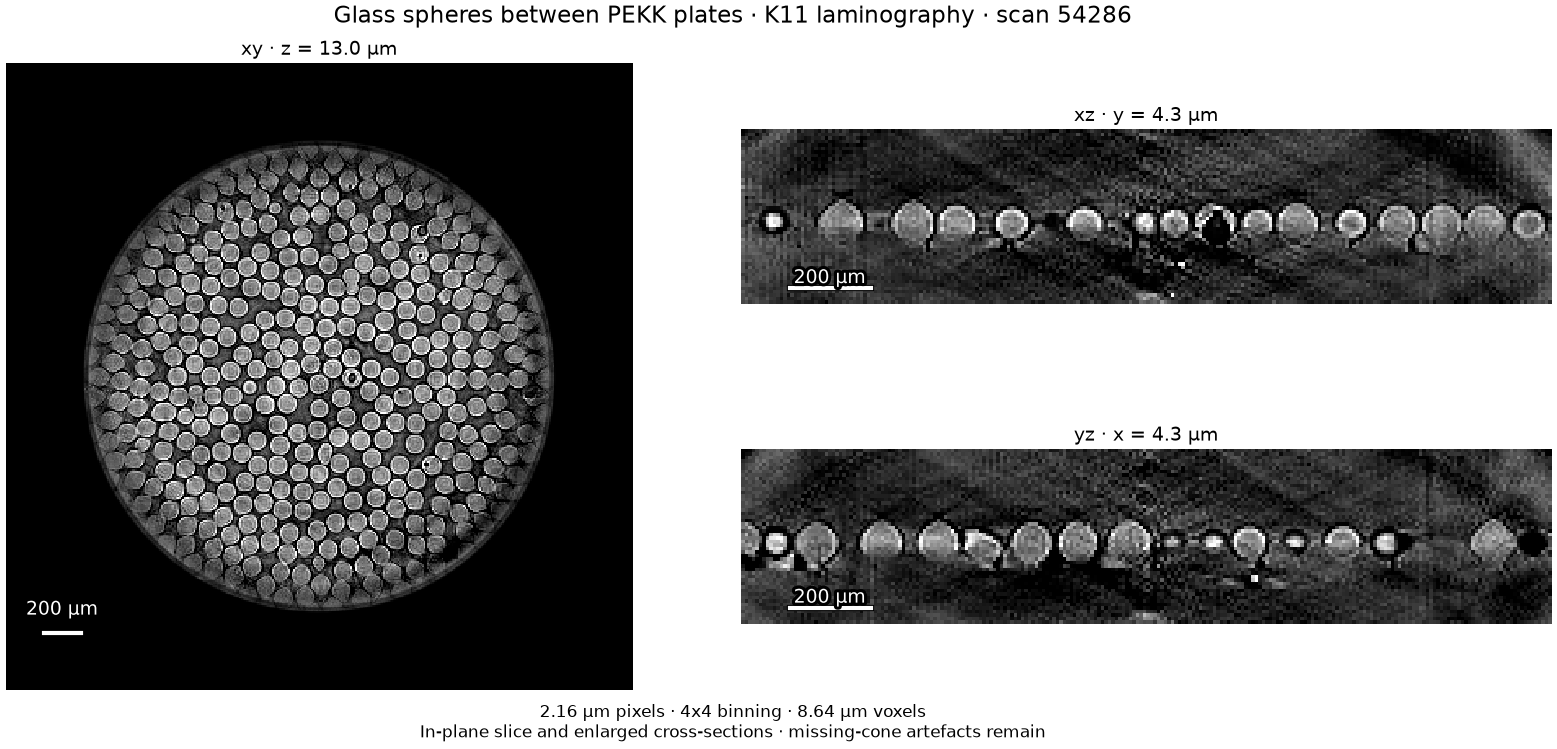
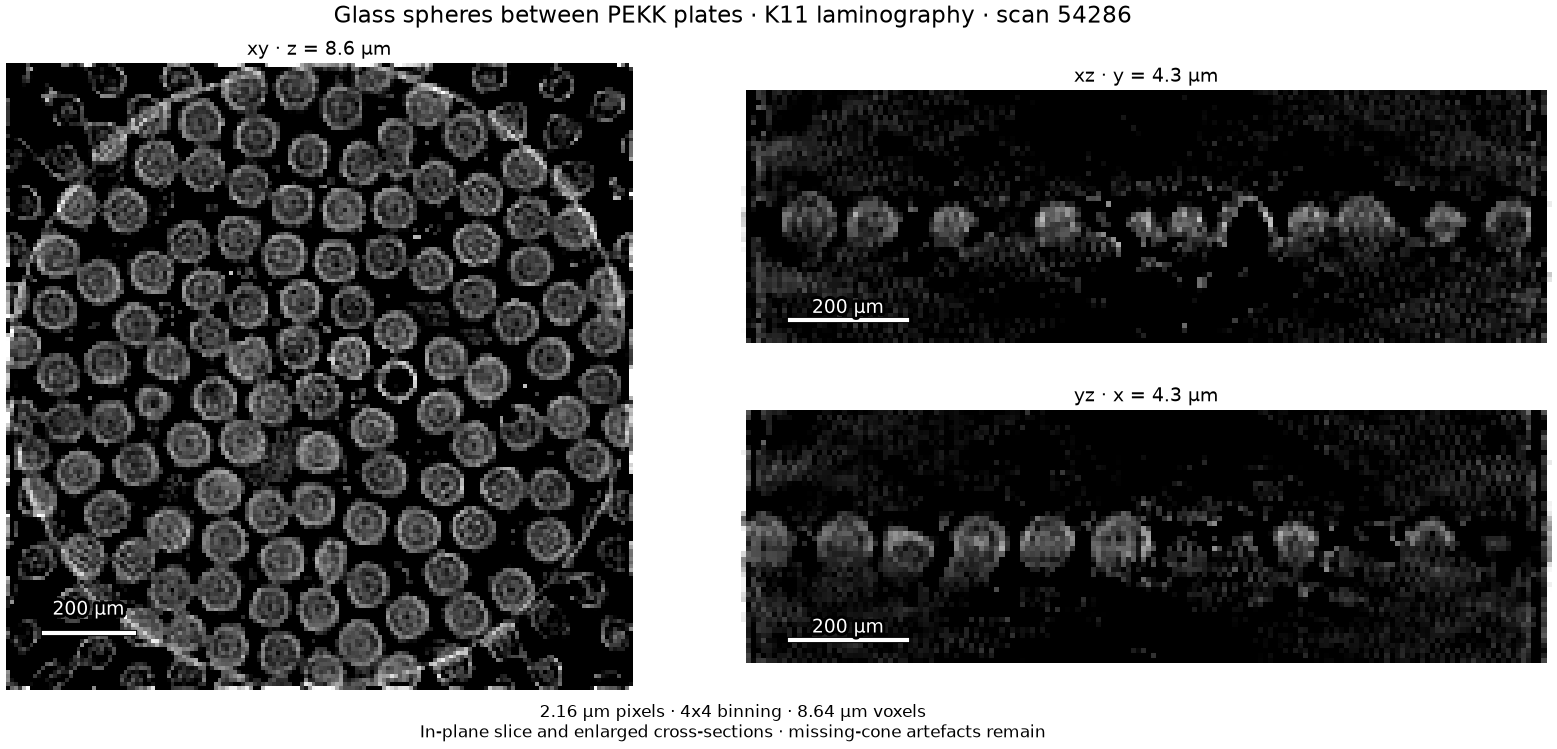
Document motion= and redraw every published plain-call alignment figure
align-a-scan.md gains a section on motion="independent" and "smooth" with the
watch and K11 54013 numbers, puts motion first in the settings table, renames
innovation_scale to slip_scale there, and says the ladder figures were made
with motion="smooth" (their generator is not in the repository; logged). The
CHANGELOG has the change and its row in the names table; measurements.md has
the new default's K11 times and a smooth / independent table; the slip
limitation is now 8% short (16% with motion="smooth").

Redrawn with the default: the README watch figure (its script is a plain call
again: shifts 0.07 / 0.05 px RMS in 36 s), the rock, K11 sphere, K11 ruby
sphere, K11 glass layer and chip figures (the chip's shifts now 0.03 / 0.06 px
RMS, from 0.33 / 0.22).

diff --git a/examples/align_watch.py b/examples/align_watch.py
@@ -6,8 +6,7 @@ The rotation axis projects 5.3 pixels off the detector centre, and every view
 has its own pose: a slow wobble of the sample plus jitter, up to 0.25° in each
 rotation and 2.4 pixels across and 1.5 pixels along the axis. gVXR traces the
 projections through the movement's meshes at those poses. ``tj.align`` fits
-``("center", "translations", "rotations")`` jointly with the volume, with
-``AlignConfig(innovation_scale=100)`` because the stage jitters from view to view; nominal
+``("center", "translations", "rotations")`` jointly with the volume; nominal
 and aligned scans are reconstructed with the same FISTA-TV settings (TV weight 1e-5).
 
 A shared rigid movement of the object and its poses cannot be distinguished by
@@ -45,8 +44,6 @@ VIEWS, PHOTONS = 400, 2e4
 CENTER_PX, ROTATION_DEG = 5.3, 0.25
 # A TV weight of 1e-5 keeps the hairspring; the automatic weight smooths it away.
 RECONSTRUCTION = {"iterations": 100, "tv_weight": 1e-5, "nonnegative": True, "warm_start": True}
-# The stage jitters from view to view, so the motion prior counts much larger steps as motion.
-ALIGNMENT = {"innovation_scale": 100.0}
 ZOOM = 140  # voxels on a side of the balance close-up
 
 
@@ -142,7 +139,7 @@ def run(args: argparse.Namespace) -> tuple[dict[str, np.ndarray], dict[str, obje
 
     start = time.perf_counter()
     fit = ("center", "translations", "rotations")
-    result = tj.align(scan, fit=fit, config=tj.AlignConfig(**ALIGNMENT))
+    result = tj.align(scan, fit=fit)
     align_seconds = time.perf_counter() - start
     before = np.asarray(tj.reconstruct(scan, "fista", **RECONSTRUCTION).volume)
     after = np.asarray(tj.reconstruct(result.scan, "fista", **RECONSTRUCTION).volume)
@@ -195,7 +192,6 @@ def run(args: argparse.Namespace) -> tuple[dict[str, np.ndarray], dict[str, obje
         "true_axis_offset_px": CENTER_PX,
         "motion": "wobble and jitter, up to 0.25 deg per rotation, 2.4 px dx, 1.5 px dz",
         "fit": list(fit),
-        "alignment_config": ALIGNMENT,
         "align_seconds": align_seconds,
         "reconstruction": {"method": "fista", **RECONSTRUCTION, "warm_start": "fbp"},
         "relative_l2_nominal": error(before, truth),
@@ -232,7 +228,7 @@ def plot(slices: dict[str, np.ndarray], metrics: dict[str, object], path: Path) 
         f"{metrics['views']} views over 180°  ·  axis "
         f"{metrics['true_axis_offset_px']:g} px off centre  ·  every view tilted up to "
         f"{ROTATION_DEG:g}° and shifted up to 2.4 px  ·  "
-        "joint centre, translations and rotations, innovation_scale 100",
+        "joint centre, translations and rotations",
         21,
         MUTED,
     )

diff --git a/src/tomojax/_workflow.py b/src/tomojax/_workflow.py
@@ -792,9 +792,10 @@ def align(
     is held at its declared value. Translations have two components for parallel
     rays and three for cone beams. Rotations are the per-view wobble of the
     rotation axis, two components; each view's angle about the axis is taken as
-    recorded, since stage encoders give it and errors in it are rare. The
-    default fits drift and slips. Per-view rotations have a prior on their
-    physical size.
+    recorded, since stage encoders give it and errors in it are rare. By
+    default each view's corrections are free of its neighbours';
+    ``motion="smooth"`` fits drift and slips instead. Per-view rotations have a
+    prior on their physical size.
 
     ``method`` "joint" (the default) fits an image and the parameters together;
     the same solver handles parallel, laminography and cone-beam scans. Existing

diff --git a/src/tomojax/alignment/_config.py b/src/tomojax/alignment/_config.py
@@ -65,7 +65,7 @@ class AlignConfig:
         towards the neighbours is strongest; larger steps are followed as slips, and the
         rotations' tie to their neighbours is inversely proportional to it. Default is 0.02.
     knot_spacing : int, optional
-        Views between the smooth drift's spline knots. Default is 10.
+        Under ``motion="smooth"``, views between the drift's spline knots. Default is 10.
     rotation_sigma : float, optional
         The per-view rotations' size prior, in degrees. Default is 0.5.
     loss_width : float, optional

diff --git a/docs/align-a-scan.md b/docs/align-a-scan.md
@@ -61,6 +61,7 @@ The figures below show each error on simulated scans, before and after the match
 movement in laminography, and a spark plug in parallel-beam tomography. The lower row of each
 figure is the image minus the image made with the true geometry, so any remaining error stands
 out. The numbers under each panel are the pose error in detector pixels and the time to fit.
+These figures were made with `motion="smooth"`, and their numbers are that setting's.
 
 ## The rotation centre
 
@@ -87,21 +88,34 @@ When the sample moves between views, features are doubled or smeared by differen
 depending on when each view was taken. The translation fit follows smooth drift and sudden slips
 of the sample together.
 
-How far a view may move from its neighbours is read from the scan itself: from how much each
-view's own best position scatters from one view to the next. Error that differs from view to
-view and is not motion, such as the model error of a real scan, raises that scale, so the fit
-does not turn it into motion. A slip much larger than the scale is still followed, a little
-short where the scale is large.
+### Independent or smooth motion
 
-A stage that jitters from view to view is motion of that kind, and the default leaves it. Raise
-`innovation_scale` for such a stage: on the README's watch scan, with up to 0.8 px of jitter in
-every view, the default recovers the shifts to 0.47 px RMS and
-`config=tj.AlignConfig(innovation_scale=100)` to 0.07 px.
+`motion=` says how a view's corrections may differ from its neighbours'. With the default,
+`motion="independent"`, nothing ties a view to its neighbours: drift, slips and a stage that
+jitters from view to view are all followed. With `motion="smooth"`, the translations drift
+freely along a spline and step from one view to the next only where the data call for a slip,
+and each view's rotations are tied to its neighbours'. How far a view may then move from its
+neighbours is read from the scan itself: from how much each view's own best position scatters
+from one view to the next. Error that differs from view to view and is not motion, such as the
+model error of a real scan, raises that scale, so the fit does not turn it into motion. A slip
+much larger than the scale is still followed, a little short where the scale is large.
+
+```python
+result = tj.align(scan)                    # motion="independent"
+result = tj.align(scan, motion="smooth")   # a steady stage
+```
+
+On the README's watch scan, with up to 0.8 px of jitter in every view, the default recovers the
+shifts to 0.07 / 0.05 px RMS across and along the axis, and `motion="smooth"` to 0.47 / 0.29 px,
+leaving the jitter. On K11 54013, a steady stage, the slices look the same either way, but the
+ruby sphere's track, an independent record of the motion, is left 0.30 / 0.19 px unexplained by
+the default against 0.20 / 0.18 px by `motion="smooth"`. Use `motion="smooth"` for a stage you
+know to be steady.
 
 ![The balance wheel with drift and five slips between views: the screws are doubled. After fit="translations" the image matches the true geometry.](images/alignment-ladder-drift.png)
 
-The default, `fit="translations"`, removes the drift and slips in this example to 0.008 px in
-21 s. It also absorbs a centre error in parallel and laminography scans, so you do not need to fit
+With `motion="smooth"`, `fit="translations"` removes the drift and slips in this example to
+0.008 px in 21 s. It also absorbs a centre error in parallel and laminography scans, so you do not need to fit
 the centre separately first. If you request `"center"` and `"translations"` together, the
 translations are given zero mean: a common translation and a centre offset describe the same
 parallel-ray geometry, and the data cannot tell them apart.
@@ -294,11 +308,11 @@ carries texture at the grid's finest scale that the object does not have.
 
 ## Settings
 
-`tj.align` takes the five settings most runs change as keywords, `iterations`,
+`tj.align` takes the six settings most runs change as keywords, `motion`, `iterations`,
 `image_iterations`, `tolerance`, `interpolation` and `resolution`, and every setting through
 `config=tj.AlignConfig(...)`. A keyword replaces the field of the same name.
 `result.info["config"]` records the values a call used, with the ones that depend on the scan
-resolved. On the command line, `tomojax align` takes the five as `--iterations`,
+resolved. On the command line, `tomojax align` takes the six as `--motion`, `--iterations`,
 `--image-iterations`, `--tolerance`, `--interpolation` and `--resolution`, and the rest as keys of a
 `--config` TOML file under the same names; `--config-keys` lists them, and `--dry-run` prints the
 resolved settings.
@@ -310,6 +324,7 @@ result = tj.align(scan, fit="translations", iterations=12, config=config)
 
 | Setting | Default | What it decides | When to change it |
 | --- | --- | --- | --- |
+| `motion` | `"independent"` | Whether each view moves on its own (`"independent"`) or as smooth drift with occasional slips (`"smooth"`) | `"smooth"` for a stage you know to be steady |
 | `iterations` | 8 | Gauss-Newton iterations at the working resolution | Raise it when `info["levels"][-1]["status"]` is `step_budget_reached`; each one costs a linearisation and an image solve |
 | `coarse_iterations` | 12 | Iterations at each coarser level | The same trade at the coarse level |
 | `levels` | `(2, 1)` | Each level's binning of the working detector, coarsest first | `(1,)` for little motion; a coarser start, such as `(4, 2, 1)`, for large motion |
@@ -322,8 +337,8 @@ result = tj.align(scan, fit="translations", iterations=12, config=config)
 | `interpolation` | cubic with an angle on parallel rays, else linear | The projector's in-plane kernel in the fit | Cubic for sharp objects and the best accuracy, at about three times the time (a K11 laminography scan: 287 s linear, 876 s cubic) |
 | `refine_iterations` | 5 | The final per-view refinement with the image held | 0 turns it off, for speed or to see the joint fit alone |
 | `initial_image_iterations` | 5 | FISTA iterations for the first image | More for a better start on a hard scan |
-| `innovation_scale` | 0.02 native pixels | How large a view-to-view step counts as an event | The motion's physical scale |
-| `knot_spacing` | 10 views | How stiff the smooth drift is | Drift faster or slower than ten views |
+| `slip_scale` | 0.02 native pixels | Under `motion="smooth"`, the view-to-view step at which the pull towards the neighbours is strongest; larger steps are followed as slips | Rarely |
+| `knot_spacing` | 10 views | Under `motion="smooth"`, how stiff the drift is | Drift faster or slower than ten views |
 | `rotation_sigma` | 0.5 degrees | The per-view rotations' size prior | A stage's wobble scale |
 | `loss_width` | 2.5 noise deviations | Where the robust loss turns from quadratic to linear | Outliers such as zingers or diffraction |
 | `loss_contrast_floor` | 0.5 of the contrast | The least loss width, on low-noise data | With `loss_width` |

diff --git a/docs/measurements.md b/docs/measurements.md
@@ -1397,15 +1397,17 @@ level's two image-sized arrays (127 MiB); the rest of `aa6cec52`'s peak over
 
 The full scans at the declared 704 × 704 × 234 grid (6.48 µm voxels, all views,
 native 640 × 540 detector at 2.16 µm), `tj.align(scan)` with nothing set, one process,
-measured 2026-11-19 and 2026-11-20 on the RTX 4070 Laptop:
+measured 2026-11-19 and 2026-11-20 on the RTX 4070 Laptop. On `f58a6f7a` and `dc736fb3`
+the plain call's motion prior is what is now `motion="smooth"`; the last time column is
+today's default, `motion="independent"` (commit `dd8f2cd`):
 
-| Scan | Views | `f58a6f7a` | `dc736fb3` | GPU, `f58a6f7a` → `dc736fb3` |
-|---|---:|---:|---:|---:|
-| K11 54013, tilt −35° | 1441 | 354 s | 281 s | 3.31 → 3.19 GiB |
-| K11 54286, tilt +35° | 1441 | 352 s | 279 s | 3.31 → 3.19 GiB |
-| K11 67208, tilt +30.9° | 4000 | 1304 s | 1039 s | 4.73 → 4.63 GiB |
+| Scan | Views | `f58a6f7a` | `dc736fb3` | `dd8f2cd`, independent | GPU, `f58a6f7a` → `dc736fb3` |
+|---|---:|---:|---:|---:|---:|
+| K11 54013, tilt −35° | 1441 | 354 s | 281 s | 281 s | 3.31 → 3.19 GiB |
+| K11 54286, tilt +35° | 1441 | 352 s | 279 s | 278 s | 3.31 → 3.19 GiB |
+| K11 67208, tilt +30.9° | 4000 | 1304 s | 1039 s | 1111 s | 4.73 → 4.63 GiB |
 
-Both commits return byte-identical poses and images on all three. On 54013, undoing one
+`f58a6f7a` and `dc736fb3` return byte-identical poses and images on all three. On 54013, undoing one
 change at a time costs 45 s for converting the CG search direction to z-contiguous
 storage once per product, 15 s for forming the motion scale's scores on the device,
 14 s for the forward kernel's fixed-stride interior reads and 8 s for the gather's
@@ -1421,9 +1423,22 @@ Its factor and solve alone, two translations and the centre fitted, knots every
 | 4000 | 318 → 26 MiB | 906 → 41 MiB | 263 → 5.0 ms | 2.6 → 0.84 ms |
 | 16000 | 5023 → 105 MiB | out of memory → 163 MiB | — → 13.8 ms | — → 1.9 ms |
 
-On K11 54013 the plain call takes 282 s. Its poses move by up to 0.30 px
+On K11 54013 the call with `motion="smooth"` takes 282 s. Its poses move by up to 0.30 px
 (6.6% of the image), the same as reordering the old prior's columns, and moving one
 pixel of the data by one unit in the last place moves them by 0.22 px (7.0%).
+
+The default `motion="independent"` (commit `dd8f2cd`, 2026-11-20) leaves each view free of
+its neighbours; `motion="smooth"` is the previous default, byte-identical to it on the small
+alignment scans and on K11 54013. Each pair below is smooth / independent, one process each:
+
+| Scan | Smooth | Independent |
+|---|---|---|
+| README watch scan (`examples/align_watch.py`), shifts RMS across / along | 0.47 / 0.29 px, 35 s | 0.07 / 0.05 px, 36 s |
+| K11 54013, the ruby sphere's track left unexplained, u / v | 0.20 / 0.18 px, 281 s | 0.30 / 0.19 px, 281 s |
+| Slip rock (120 views, 0.95 px slip), pose RMS; slip followed | 0.095 px; 0.80 px, 10 s | 0.095 px; 0.88 px, 6 s |
+| Half-turn rock, `fit=("translations", "tilt")`, landmarks; tilt (true −0.35°) | 0.148 px; −0.764°, 16 s | 0.148 px; −0.764°, 15 s |
+| FIPS walnut, three orbits (`examples/align_walnut_orbits.py`), orbit heights | 0, −0.385, −0.753 mm, 101 s | the same, 100 s |
+| Zeiss CuO_2 tomo-A, binned 4 | 88 s | 75 s; volumes differ by 1.0% |
 
 ### Detector centre
 

diff --git a/CHANGELOG.md b/CHANGELOG.md
@@ -2,6 +2,16 @@
 
 ## Unreleased
 
+### Alignment follows each view's own motion by default
+
+`tj.align` takes `motion="independent"` (the default) or `motion="smooth"`, also as an
+`AlignConfig` field and `tomojax align --motion`. Independent leaves every view free of its
+neighbours, so a stage that jitters from view to view is followed: on the README's watch
+scan the shifts come out at 0.07 / 0.05 px RMS against 0.47 / 0.29 px before. Smooth is the
+previous default, unchanged, for a steady stage, where per-view error that is not motion
+should not be followed. `AlignConfig(innovation_scale=)` is now `slip_scale=` and applies
+under `motion="smooth"` only.
+
 ### Alignment drift and acquisition gaps
 
 The per-view motion prior in `tj.align` now takes linear storage and work as
@@ -44,6 +54,7 @@ There are no aliases. Each old name is gone, and files saved before this release
 | `info["pose_dofs"]`, columns `dx`, `dz`, `dy` (also the report's and saved table's) | `info["pose_columns"]`, columns `x`, `z`, `y` |
 | saved `angle_offset_deg` | `angle_offset` |
 | `Reconstruction(volume, scan, method, info)` | `Reconstruction(volume, geometry, method, info, scan=None)` |
+| `AlignConfig(innovation_scale=)` | `motion=` (`"independent"` by default, or `"smooth"`), and `slip_scale=` under `motion="smooth"` |
 | `tj.estimate_center(scan)` | `tj.align(scan, fit="center", method="opposite-views").scan` |
 | `--roi` (`recon`, `align`) | `--region`, and `region=` on `tj.reconstruct` and `tj.align` |
 | `info["levels"][i]["budget"] = {outer, inner, init_iterations, lm_initial}` | `info["levels"][i]["iterations"]`, `["image_iterations"]`, `["initial_image_iterations"]` |

diff --git a/examples/README.md b/examples/README.md
@@ -65,13 +65,12 @@ from it. Over the whole slab the relative L2 error is 0.357 for FBP and
 400 views over a half turn and 2 × 10⁴ photons per pixel. The rotation axis
 projects 5.3 px off the detector centre, and every view has its own pose: a
 slow wobble plus jitter of up to 0.25° in each rotation, 2.4 px across the axis
-and 1.5 px along it. Because the stage jitters from view to view,
-`tj.align(scan, fit=("center", "translations", "rotations"),
-config=tj.AlignConfig(innovation_scale=100))` is used; it takes 34 s. It recovers
-the rotations to 0.06° RMS or better and the shifts to 0.07 px (across) and
-0.05 px (along) RMS. The error of a FISTA-TV reconstruction (TV weight 1e-5, which
-keeps the hairspring) falls from 0.905 with the nominal geometry to 0.208, against
-0.212 with the true poses. The script takes about 2.5 minutes.
+and 1.5 px along it. `tj.align(scan, fit=("center", "translations", "rotations"))`
+takes 36 s. It recovers the rotations to 0.06° RMS or better and the shifts to
+0.07 px (across) and 0.05 px (along) RMS. The error of a FISTA-TV reconstruction
+(TV weight 1e-5, which keeps the hairspring) falls from 0.905 with the nominal
+geometry to 0.209, against 0.212 with the true poses. The script takes about
+2.5 minutes.
 
 Moving the whole movement rigidly, with every pose moved back, predicts the
 same data, as does trading the detector centre against a shift of every view,

diff --git a/docs/known-limitations.md b/docs/known-limitations.md
@@ -31,8 +31,9 @@ Alignment is experimental and needs scan-specific review. Use the
   determined: the fit may leave it, and the reconstruction is unaffected.
 - On a half-turn parallel scan, `fit=("translations", "tilt")` can overshoot the tilt by a few
   tenths of a degree: on a synthetic sandstone scan it fitted −0.76° for a true −0.35°.
-- A sudden slip of about a pixel between neighbouring views is followed about 16% short: on a
-  synthetic sandstone scan the fit moved 0.80 px for a 0.95 px slip.
+- A sudden slip of about a pixel between neighbouring views is followed about 8% short: on a
+  synthetic sandstone scan the fit moved 0.88 px for a 0.95 px slip, and 0.80 px with
+  `motion="smooth"`.
 - When the sample extends past the detector, the outermost slices are unreliable, aligned or
   not: reconstructed with the true poses they are as far from the truth.
 - The image and geometry are jointly estimated. Common rigid object motion is a gauge, and a

diff --git a/images/README.md b/images/README.md
@@ -40,10 +40,8 @@ the exact voxel average of the meshes, recorded in
 [alignment-example.png](alignment-example.png) comes from
 [align_watch.py](../examples/align_watch.py): 400 views on 77 µm voxels with
 the axis 5.3 px off centre and per-view wobble and jitter, aligned with
-`tj.align(scan, fit=("center", "translations", "rotations"),
-config=tj.AlignConfig(innovation_scale=100))`, since the stage jitters from view to
-view. Both volumes are FISTA-TV reconstructions with TV weight 1e-5, which keeps the
-hairspring, and every panel shares one grey scale.
+`tj.align(scan, fit=("center", "translations", "rotations"))`. Both volumes are
+FISTA-TV reconstructions with TV weight 1e-5, which keeps the hairspring, and every panel shares one grey scale.
 The truth, its poses and its centre are compared in the least-motion frame
 `tj.align` reports; [alignment-example.json](alignment-example.json) records
 the gauge removed and every error.

diff --git a/docs/gallery.md b/docs/gallery.md
@@ -56,9 +56,8 @@ A DIAD-like scan at 25 keV and 30° tilt, rendered by gVXR from the meshes of a
 chip package with phase contrast, detector blur, Poisson noise and flat
 fields. The detector is 3.2 pixels off the axis and the sample wobbles and
 jitters by about two pixels and 0.1° between views. `tj.align` finds the centre
-to 0.02 pixels in 39 s and follows the per-view shifts to 0.33 pixels across the
-axis and 0.22 pixels along it, leaving the jitter across it; the voids in the
-solder balls reappear.
+to 0.02 pixels and the per-view shifts to 0.03 pixels across the axis and 0.06
+pixels along it in 37 s; the voids in the solder balls reappear.
 The shifts are compared after removing a rigid motion of the whole
 sample, which no reconstruction can detect; the errors that remain are
 largest near 90° and 270°. The display is clipped at 1.2 mm⁻¹, so copper and
